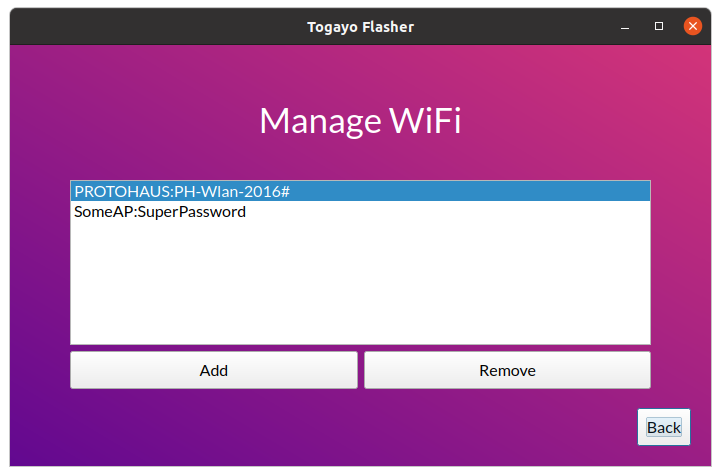
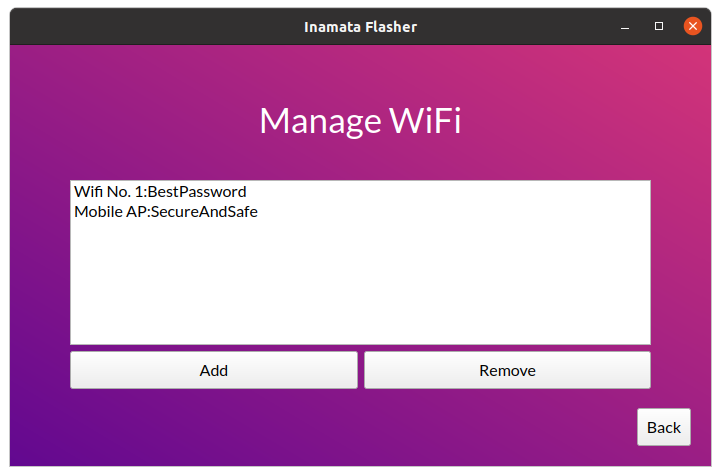
Update docs and clearing data
Why:

- Allow saved data to be cleared
- Update documentation
- Remove Togayo references

This change addresses the need by:

- Updating the Linux screenshots
-

diff --git a/controller.py b/controller.py
@@ -48,6 +48,7 @@ class Controller:
         # Login Page
         self._view.ui.loginButton.clicked.connect(self.log_in)
         self._view.ui.signUpButton.clicked.connect(self.sign_up)
+        self._view.ui.clearDataButton.clicked.connect(self.clear_data)
 
         # Welcome Page
         self._view.ui.welcomeAddControllerButton.clicked.connect(self.to_add_controller)
@@ -100,9 +101,7 @@ class Controller:
 
     def to_driver_install(self):
         """Open the driver installation web page."""
-        QDesktopServices.openUrl(
-            QUrl("https://github.com/Togayo/Flasher#driver-setup-instructions")
-        )
+        QDesktopServices.openUrl(QUrl("https://app.inamata.co"))
 
     ##########################
     # Login Page Functionality
@@ -136,6 +135,14 @@ class Controller:
 
     def sign_up(self):
         QDesktopServices.openUrl(QUrl("https://app.staging.inamata.co/"))
+
+    def clear_data(self):
+        self._server_model.log_out()
+        self._wifi_model.remove_all_aps()
+        self._config.clear_stored_data()
+        self._view.notify(
+            "Cleared secrets, configurations and cached data.", "Cleared data"
+        )
 
     ############################
     # Welcome Page Functionality
@@ -289,7 +296,7 @@ class Controller:
         if not self._view.ui.addControllerSitesComboBox.currentData():
             message = (
                 "Please select a site or reload if none are available."
-                " If the problem persists please update the Togayo Flasher tool or contact your administrator."
+                " If the problem persists please update the Inamata Flasher tool or contact your administrator."
             )
             self._view.notify(message, "Missing Input")
             return False
@@ -307,7 +314,7 @@ class Controller:
         if not self._view.ui.addControllerFirmwaresComboBox.currentData():
             message = (
                 "Please select a firmware version or reload if none are available."
-                " If the problem persists please update the Togayo Flasher tool or contact your administrator."
+                " If the problem persists please update the Inamata Flasher tool or contact your administrator."
             )
             self._view.notify(message, "Missing Input")
             return False
@@ -482,7 +489,7 @@ class Controller:
                 "No sites found. Visit <a href='https://app.inamata.co' style='color: #ccc'>app.inamata.co</a> to create new sites.",
                 "No Sites Found",
             )
-        
+
         # Update the firmware combo box and retain the currently selected item
         current_firmware = (
             self._view.ui.replaceControllerFirmwaresComboBox.currentData()
@@ -597,14 +604,14 @@ class Controller:
         if not self._view.ui.replaceControllerSitesComboBox.currentData():
             message = (
                 "Please select a site or reload if none are available."
-                " If the problem persists please update the Togayo Flasher tool or contact your administrator."
+                " If the problem persists please update the Inamata Flasher tool or contact your administrator."
             )
             self._view.notify(message, "Missing Input")
             return False
         if not self._view.ui.replaceControllerControllersComboBox.currentData():
             message = (
                 "Please select a site or reload if none are available."
-                " If the problem persists please update the Togayo Flasher tool or contact your administrator."
+                " If the problem persists please update the Inamata Flasher tool or contact your administrator."
             )
             self._view.notify(message, "Missing Input")
             return False
@@ -618,7 +625,7 @@ class Controller:
         if not self._view.ui.replaceControllerFirmwaresComboBox.currentData():
             message = (
                 "Please select a firmware version or reload if none are available."
-                " If the problem persists please update the Togayo Flasher tool or contact your administrator."
+                " If the problem persists please update the Inamata Flasher tool or contact your administrator."
             )
             self._view.notify(message, "Missing Input")
             return False
@@ -645,7 +652,7 @@ class Controller:
 
     def replace_controller_download_firmware_progress(self, progress):
         """Set download progress for 0% to 30%."""
-        mapped_progress = (progress / 100 * 30)
+        mapped_progress = progress / 100 * 30
         self.replace_controller_set_progress_bar(mapped_progress)
 
     def replace_controller_download_firmware_result(self, firmware: dict):
@@ -806,5 +813,6 @@ class Controller:
     def handle_close(self, event: QCloseEvent):
         """Save the config on close."""
         self._wifi_model.save_to_config()
-        self._config.save_config()
+        if self._config.config:
+            self._config.save_config()
         event.accept()

diff --git a/server_model.py b/server_model.py
@@ -45,7 +45,7 @@ class ServerModel:
     @property
     def core_domain(self) -> str:
         return urlparse(self._core_base_url).hostname
-    
+
     @property
     def is_core_url_secure(self) -> str:
         return urlparse(self._core_base_url).scheme == "https"
@@ -104,9 +104,6 @@ class ServerModel:
     def log_out(self) -> None:
         self._clear_credentials()
         self._clear_token_profile()
-
-    def sign_up(self) -> None:
-        print("Signing up!")
 
     def get_site_and_firmware_data(self, **kwargs) -> None:
         """Get the available sites and firmware images."""
@@ -187,7 +184,7 @@ class ServerModel:
         results = output["data"]["allControllerComponents"]
         if results["pageInfo"]["hasNextPage"]:
             message = (
-                "Not all controllers for this site could be fetched. Please upgrade your Togayo"
+                "Not all controllers for this site could be fetched. Please upgrade your Inamata"
                 "Flasher tool."
             )
             raise WorkerInformation(message)
@@ -558,11 +555,11 @@ class ServerModel:
         self._oauth_access_token_data_cache = {}
         self._oauth_refresh_token_cache = ""
         self._oauth_refresh_token_data_cache = {}
-        username = self._config.config["username"]
-        try:
-            keyring.delete_password(self._config.app_name, username)
-        except PasswordDeleteError:
-            pass
+        if username := self._config.config.get("username"):
+            try:
+                keyring.delete_password(self._config.app_name, username)
+            except PasswordDeleteError:
+                pass
 
     def _auth_server_request(self, url, data, headers=None):
         """Make a GraphQL server request with the cached auth token."""

diff --git a/config.py b/config.py
@@ -77,9 +77,20 @@ class Config:
 
     def save_config(self) -> None:
         """Overwrites the config file."""
-        print("Saving config")
+        pathlib.Path(self.dirs.user_config_dir).mkdir(parents=True, exist_ok=True)
         with open(self._config_path, "w") as file:
             json.dump(self.config, file)
+
+    def clear_stored_data(self) -> None:
+        """Clears all local data."""
+        self.config = {}
+        shutil.rmtree(self.dirs.user_data_dir, ignore_errors=True)
+        shutil.rmtree(self.dirs.site_data_dir, ignore_errors=True)
+        shutil.rmtree(self.dirs.user_config_dir, ignore_errors=True)
+        shutil.rmtree(self.dirs.site_config_dir, ignore_errors=True)
+        shutil.rmtree(self.dirs.user_cache_dir, ignore_errors=True)
+        shutil.rmtree(self.dirs.user_state_dir, ignore_errors=True)
+        shutil.rmtree(self.dirs.user_log_dir, ignore_errors=True)
 
     def clear_cached_data(self) -> None:
         """Clears cache incl. sites, firmware images and controller data."""

diff --git a/wifi_model.py b/wifi_model.py
@@ -46,13 +46,19 @@ class WiFiModel(QAbstractListModel):
         self.beginRemoveRows(QModelIndex(), row, row)
         self.aps.pop(row)
         self.endRemoveRows()
-    
+
+    def remove_all_aps(self):
+        self.aps = []
+        self._config.config.pop("wifi_aps")
+
     def get_ap(self, index: QModelIndex):
         """Get the AP at the specified index."""
         return self.aps[index.row()]
 
     def save_to_config(self):
-        """Save the current APs to the config file"""
-        self._config.config["wifi_aps"] = [
-            {"ssid": i.ssid, "password": i.password} for i in self.aps
-        ]
+        """Save the current APs to the config"""
+        wifi_aps = [{"ssid": i.ssid, "password": i.password} for i in self.aps]
+        if wifi_aps:
+            self._config.config["wifi_aps"] = wifi_aps
+        else:
+            self._config.config.pop("wifi_aps")

diff --git a/main.py b/main.py
@@ -1,8 +1,8 @@
 #!/usr/bin/env python
 
-"""Register ESP32's with the Togayo Server
+"""Register ESP32's with the Inamata Server
 
-Togayo Flasher is a tool for flashing the sdg-controller firmware on ESP32
+Inamata Flasher is a tool for flashing the Inamata controller firmware on ESP32
 microcontrollers and registering their authentication token on the server.
 """
 

diff --git a/README.md b/README.md
@@ -1,4 +1,4 @@
-![Togayo Flasher](./images/header-logo.png)
+![Inamata Flasher](./images/header-logo.png)
 
 Flash the firmware onto an ESP32 and register it with the server.
 
